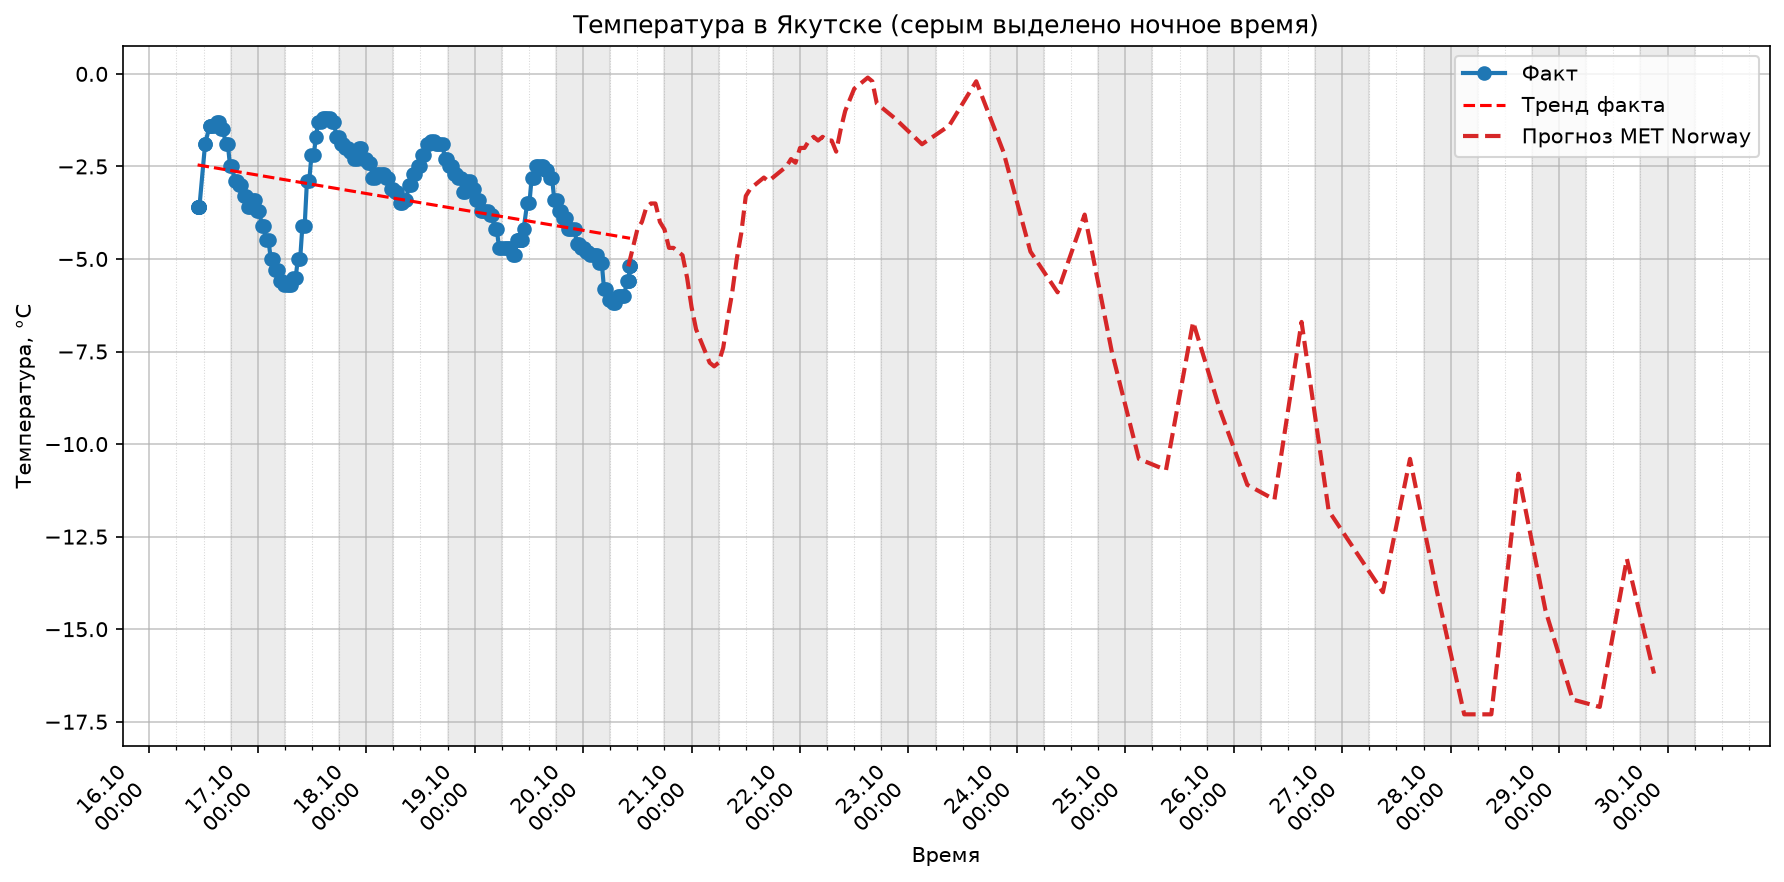
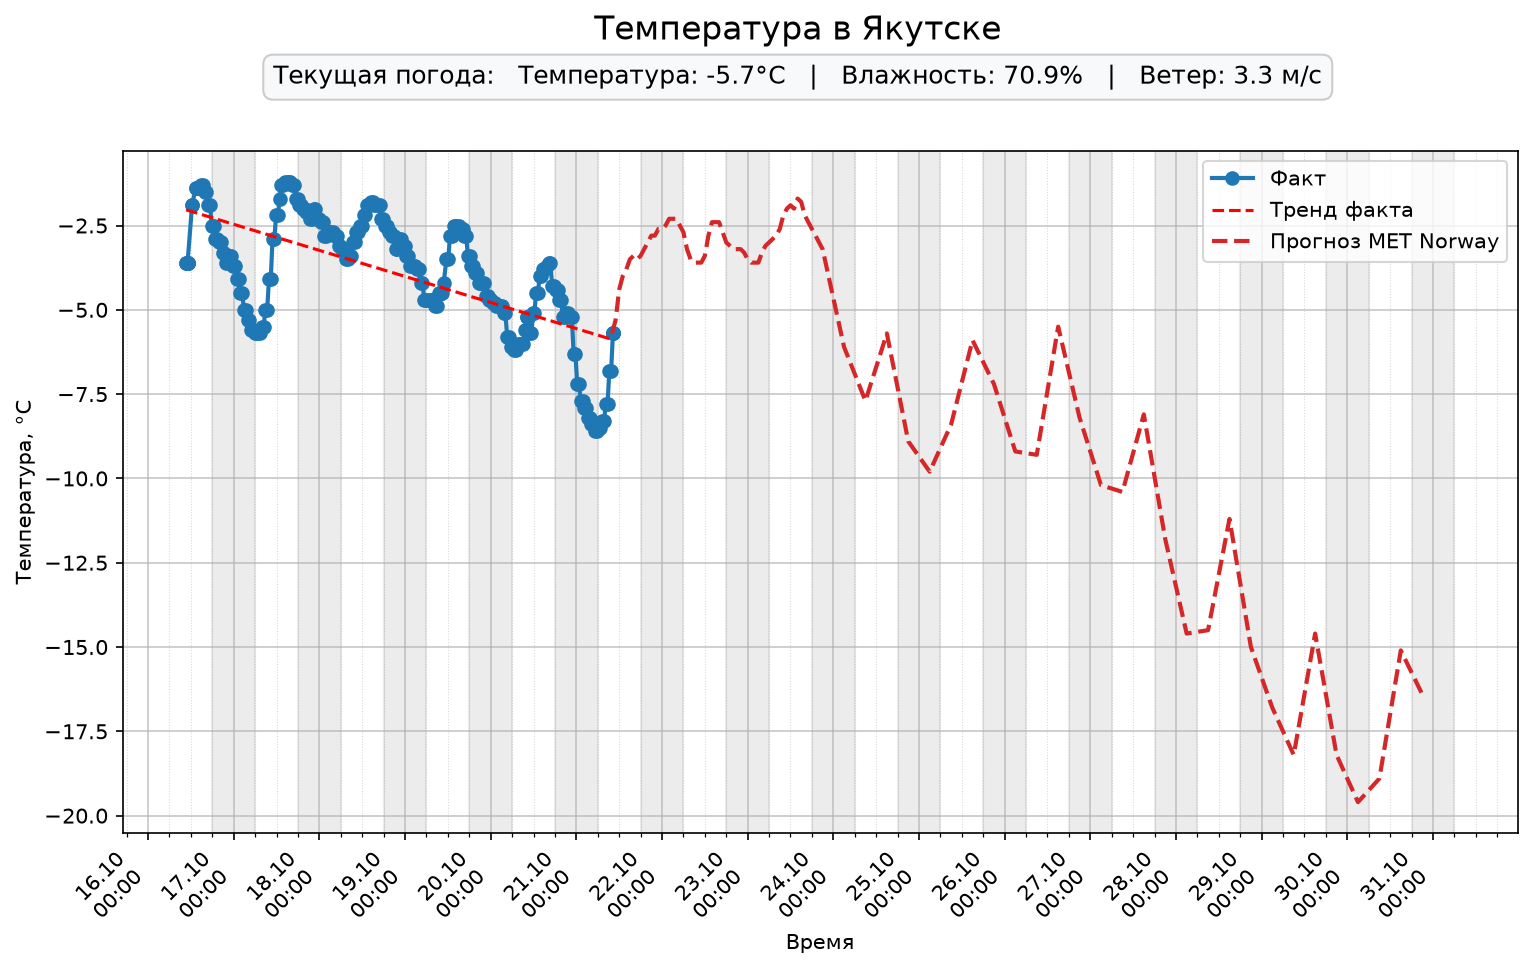
edit output graph

Changed region(s): [[0.0, 0.0, 1.0, 0.9796], [0.9204, 0.0306, 0.951, 0.0612]]

diff --git a/plotter.py b/plotter.py
@@ -14,9 +14,9 @@ def plot_temperature(records, forecast=None, filename="temperature.png"):
     if not os.path.isabs(filename):
         filename = os.path.join(BASE_DIR, filename)
 
-    fig, ax = plt.subplots(figsize=(12, 6))
+    # Увеличиваем высоту окна до 7, чтобы было место для текста сверху
+    fig, ax = plt.subplots(figsize=(12, 7))
 
-    # --- СБОР ВСЕХ ДАТ ДЛЯ ОПРЕДЕЛЕНИЯ ГРАНИЦ ГРАФИКА ---
     all_dates = []
     
     if records:
@@ -41,43 +41,55 @@ def plot_temperature(records, forecast=None, filename="temperature.png"):
     if all_dates:
         start_date = min(all_dates).replace(hour=0, minute=0, second=0, microsecond=0)
         end_date = max(all_dates)
-        
         current_day = start_date
         while current_day <= end_date:
-            # Ночь начинается в 18:00 текущего дня
             night_start = current_day.replace(hour=18, minute=0)
-            # и заканчивается в 06:00 следующего дня
-            night_end = current_day + timedelta(days=1)
-            night_end = night_end.replace(hour=6, minute=0)
-            
-            # Рисуем серый прямоугольник (zorder=0, чтобы он был ПОД линиями графика)
+            night_end = (current_day + timedelta(days=1)).replace(hour=6, minute=0)
             ax.axvspan(night_start, night_end, color='gray', alpha=0.15, zorder=0)
-            
             current_day += timedelta(days=1)
 
-    # --- ОФОРМЛЕНИЕ ---
-    ax.set_title("Температура в Якутске")
+    # --- ОФОРМЛЕНИЕ ГРАФИКА ---
     ax.set_xlabel("Время")
     ax.set_ylabel("Температура, °C")
 
     date_format = mdates.DateFormatter("%d.%m\n%H:%M")
     ax.xaxis.set_major_formatter(date_format)
-    
-    # Ставим основные метки РАЗ В СУТКИ (в полночь), чтобы не было каши
     ax.xaxis.set_major_locator(mdates.DayLocator())
-    
-    # Минорные метки (каждые 6 часов) оставляем для сетки
     ax.xaxis.set_minor_locator(mdates.HourLocator(byhour=[6, 12, 18]))
 
     ax.grid(which="major", linestyle="-", linewidth=0.8, alpha=0.7)
     ax.grid(which="minor", linestyle=":", linewidth=0.5, alpha=0.5)
 
-    # Теперь, когда метки только раз в день, их можно немного наклонить для красоты
     fig.autofmt_xdate(rotation=45, ha="right")
-
     ax.legend(loc="upper right")
 
-    fig.tight_layout()
+    # --- ЗАГОЛОВОК И ТЕКУЩИЕ ПАРАМЕТРЫ ВЫНОСИМ НАВЕРХ ---
+    # 1. Главный заголовок
+    fig.suptitle("Температура в Якутске", fontsize=16, y=0.98)
+    
+    if records:
+        latest = records[-1]
+        # Формируем строку без эмодзи
+        info_text = (
+            f"Текущая погода:   "
+            f"Температура: {latest['temp']}°C   |   "
+            f"Влажность: {latest['humidity']}%   |   "
+            f"Ветер: {latest['wind']} м/с"
+        )
+        
+        # 2. Добавляем текст по центру окна, чуть ниже заголовка (y=0.92)
+        fig.text(
+            0.5, 0.92, 
+            info_text, 
+            ha='center',   # Выравнивание по центру
+            va='center',   # Выравнивание по вертикали
+            fontsize=12,
+            bbox=dict(boxstyle="round,pad=0.4", facecolor="#f8f9fa", edgecolor="#cccccc")
+        )
+
+    # 3. Сдвигаем сам график вниз, чтобы освободить место для текста сверху
+    fig.subplots_adjust(top=0.85)
+
     fig.savefig(filename, dpi=150, bbox_inches="tight")
     plt.close(fig)
     print(f"График сохранён: {filename}")
